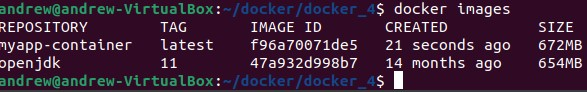
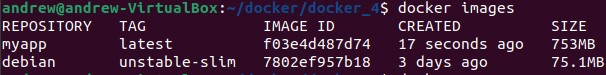
docker_4 change dockerfile

diff --git a/docker_4/dockerfile_layels.md b/docker_4/dockerfile_layels.md
@@ -15,23 +15,21 @@ public class Program {
 }
 
 ```
-
 В этой же папке создаём файл `Dockerfile`:
 
 ```
-FROM openjdk:11
-RUN apt update
+FROM debian:unstable-slim
+RUN apt update && apt install openjdk-20-jdk -y
 WORKDIR /home/andrew/docker/docker_4
 COPY Program.java .
 RUN javac Program.java
 CMD ["java", "Program"]
-
 ```
 
 Создаём контейнер:
 
 ```
-docker build -t myapp-container
+docker build -t myapp .
 docker images
 ```
 
@@ -39,7 +37,7 @@ docker images
 
 Запускаем контейнер:
 
-`docker run myapp-container`
+`docker run myapp`
 
 ![scr_2](./images/scr_2.jpg)
 
